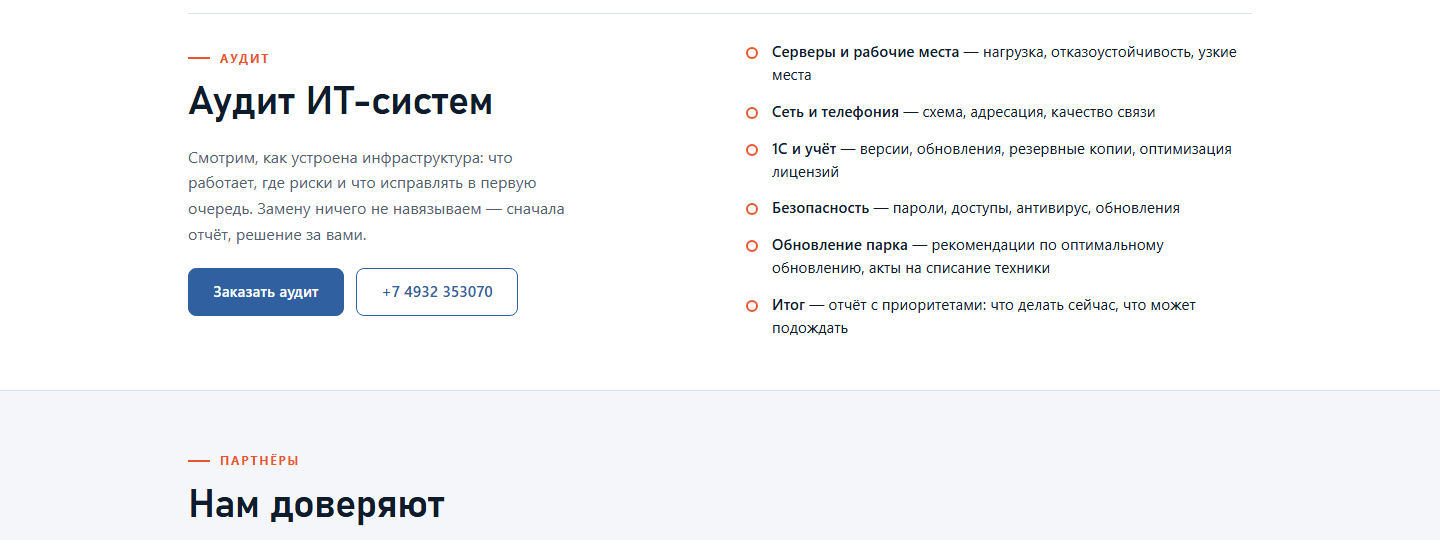
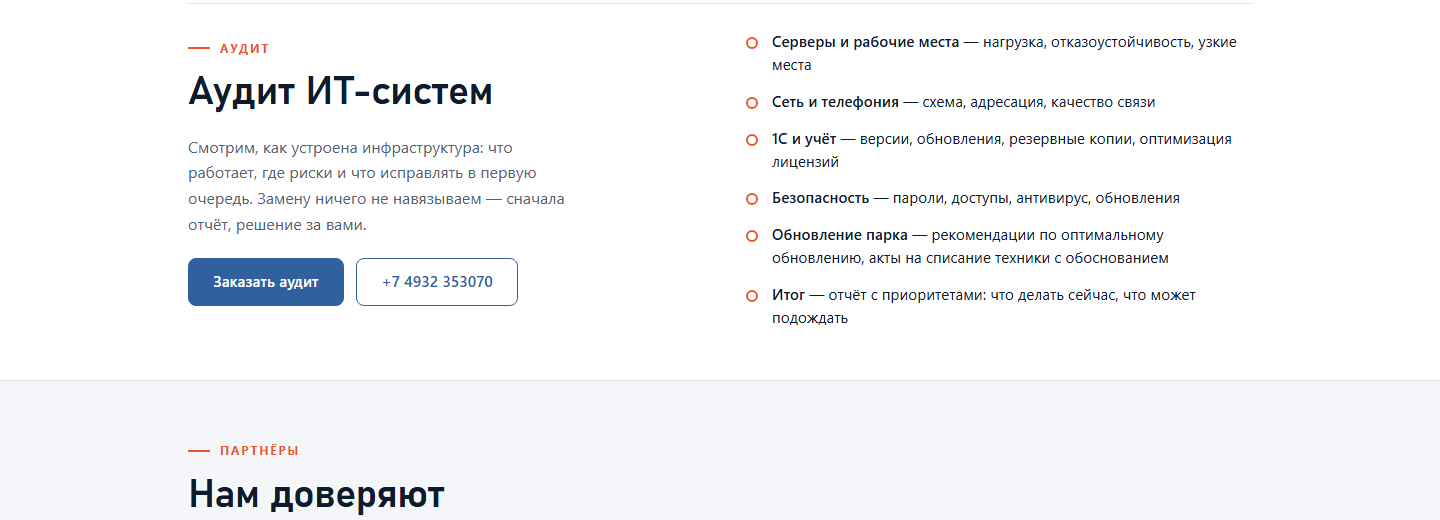
Аудит: акты на списание с обоснованием

diff --git a/index.html b/index.html
@@ -24,7 +24,7 @@
 
   <link rel="icon" href="assets/icon.png" type="image/png">
   <link rel="apple-touch-icon" href="assets/icon.png">
-  <link rel="stylesheet" href="assets/style.css?v=20261140">
+  <link rel="stylesheet" href="assets/style.css?v=20261141">
 
   <script type="application/ld+json">
   {
@@ -74,7 +74,7 @@
   <header class="site-header">
     <div class="container header-inner">
       <a class="brand" href="#top" aria-label="Интер-Техника-Плюс — на главную">
-        <img class="brand-logo" src="assets/logo.png?v=20261140" alt="Интер-Техника-Плюс" width="112" height="44">
+        <img class="brand-logo" src="assets/logo.png?v=20261141" alt="Интер-Техника-Плюс" width="112" height="44">
         <span class="brand-name">Интер-Техника<span class="brand-plus">+</span></span>
       </a>
 
@@ -230,7 +230,7 @@
             <li><b>Сеть и телефония</b> — схема, адресация, качество связи</li>
             <li><b>1С и учёт</b> — версии, обновления, резервные копии, оптимизация лицензий</li>
             <li><b>Безопасность</b> — пароли, доступы, антивирус, обновления</li>
-            <li><b>Обновление парка</b> — рекомендации по оптимальному обновлению, акты на списание техники</li>
+            <li><b>Обновление парка</b> — рекомендации по оптимальному обновлению, акты на списание техники с обоснованием</li>
             <li><b>Итог</b> — отчёт с приоритетами: что делать сейчас, что может подождать</li>
           </ul>
         </div>
@@ -394,7 +394,7 @@
     <a class="btn btn--ghost" href="wa.html" target="_blank" rel="noopener">Написать</a>
   </div>
 
-  <script src="assets/app.js?v=20261140" defer></script>
-  <script src="assets/map.js?v=20261140" defer></script>
+  <script src="assets/app.js?v=20261141" defer></script>
+  <script src="assets/map.js?v=20261141" defer></script>
 </body>
 </html>

diff --git a/requisites.html b/requisites.html
@@ -8,13 +8,13 @@
   <link rel="canonical" href="https://ivu.ru/requisites.html">
   <link rel="icon" href="assets/icon.png" type="image/png">
   <link rel="apple-touch-icon" href="assets/icon.png">
-  <link rel="stylesheet" href="assets/style.css?v=20261140">
+  <link rel="stylesheet" href="assets/style.css?v=20261141">
 </head>
 <body>
   <header class="site-header">
     <div class="container header-inner">
       <a class="brand" href="index.html" aria-label="Интер-Техника-Плюс — на главную">
-        <img class="brand-logo" src="assets/logo.png?v=20261140" alt="Интер-Техника-Плюс" width="112" height="44">
+        <img class="brand-logo" src="assets/logo.png?v=20261141" alt="Интер-Техника-Плюс" width="112" height="44">
         <span class="brand-name">Интер-Техника<span class="brand-plus">+</span></span>
       </a>
       <button class="nav-toggle" type="button" aria-expanded="false" aria-controls="nav">
@@ -134,6 +134,6 @@
     </div>
   </footer>
 
-  <script src="assets/app.js?v=20261140" defer></script>
+  <script src="assets/app.js?v=20261141" defer></script>
 </body>
 </html>

diff --git a/privacy.html b/privacy.html
@@ -8,13 +8,13 @@
   <meta name="robots" content="noindex, follow">
   <link rel="icon" href="assets/icon.png" type="image/png">
   <link rel="apple-touch-icon" href="assets/icon.png">
-  <link rel="stylesheet" href="assets/style.css?v=20261140">
+  <link rel="stylesheet" href="assets/style.css?v=20261141">
 </head>
 <body>
   <header class="site-header">
     <div class="container header-inner">
       <a class="brand" href="index.html" aria-label="Интер-Техника-Плюс — на главную">
-        <img class="brand-logo" src="assets/logo.png?v=20261140" alt="Интер-Техника-Плюс" width="112" height="44">
+        <img class="brand-logo" src="assets/logo.png?v=20261141" alt="Интер-Техника-Плюс" width="112" height="44">
         <span class="brand-name">Интер-Техника<span class="brand-plus">+</span></span>
       </a>
       <button class="nav-toggle" type="button" aria-expanded="false" aria-controls="nav">
@@ -102,6 +102,6 @@
     </div>
   </footer>
 
-  <script src="assets/app.js?v=20261140" defer></script>
+  <script src="assets/app.js?v=20261141" defer></script>
 </body>
 </html>

diff --git a/404.html b/404.html
@@ -7,13 +7,13 @@
   <meta name="robots" content="noindex">
   <link rel="icon" href="assets/icon.png" type="image/png">
   <link rel="apple-touch-icon" href="assets/icon.png">
-  <link rel="stylesheet" href="assets/style.css?v=20261140">
+  <link rel="stylesheet" href="assets/style.css?v=20261141">
 </head>
 <body>
   <header class="site-header">
     <div class="container header-inner">
       <a class="brand" href="index.html" aria-label="Интер-Техника-Плюс — на главную">
-        <img class="brand-logo" src="assets/logo.png?v=20261140" alt="Интер-Техника-Плюс" width="112" height="44">
+        <img class="brand-logo" src="assets/logo.png?v=20261141" alt="Интер-Техника-Плюс" width="112" height="44">
         <span class="brand-name">Интер-Техника<span class="brand-plus">+</span></span>
       </a>
       <nav class="nav" aria-label="Основная навигация">
@@ -47,6 +47,6 @@
     </div>
   </footer>
 
-  <script src="assets/app.js?v=20261140" defer></script>
+  <script src="assets/app.js?v=20261141" defer></script>
 </body>
 </html>
